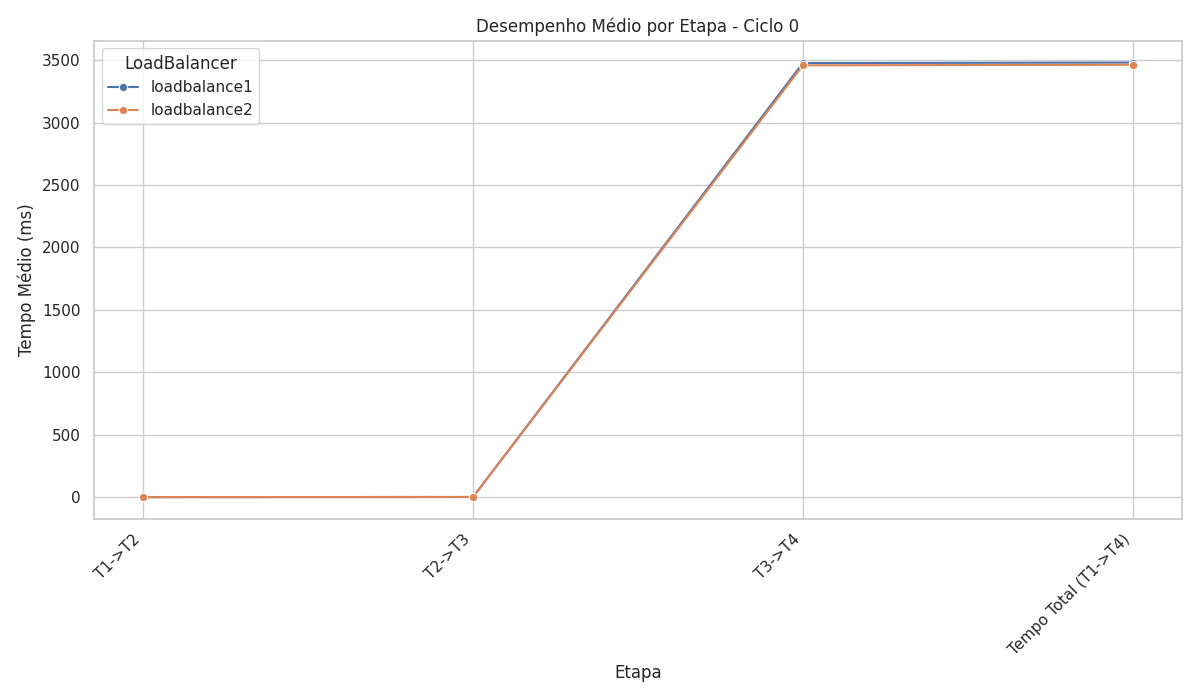
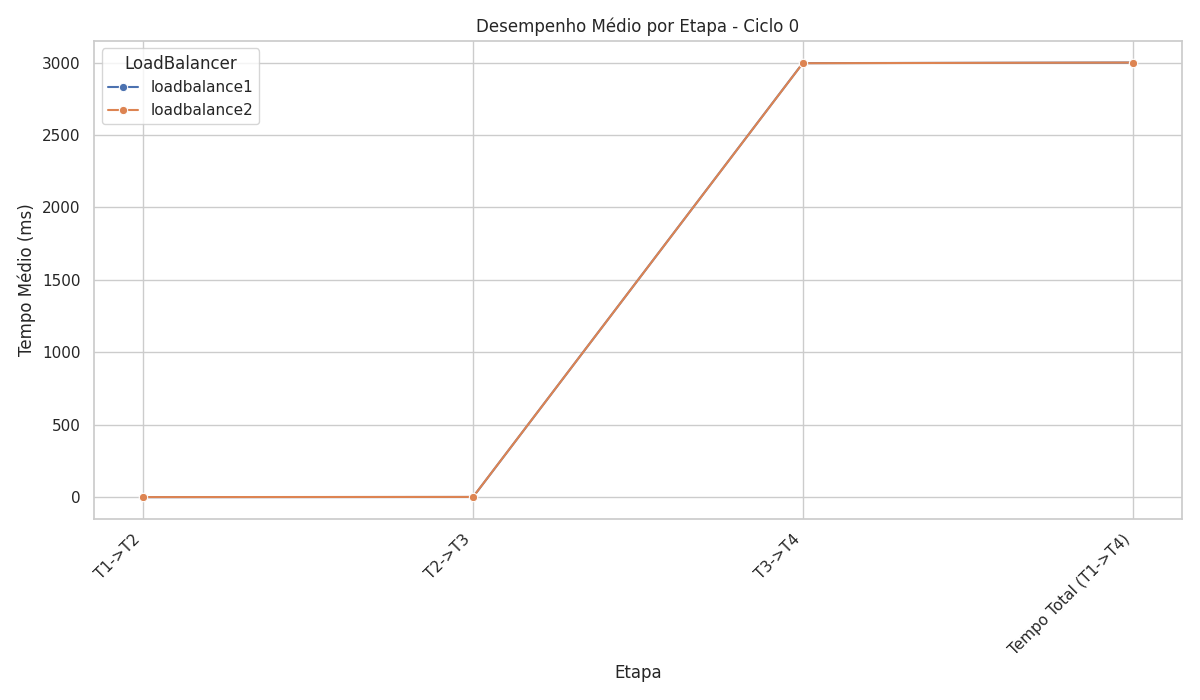
refactor:graphics

diff --git a/python/src/source.py b/python/src/source.py
@@ -108,7 +108,7 @@ class Source(AbstractProxy):
             msg = f"1;{self.source_current_index_message};{get_current_timestamp()}"
             self.send(msg)
             self.source_current_index_message += 1
-            time.sleep(self.arrival_delay / 1000.0)
+            time.sleep(self.arrival_delay)
 
     def send_messages_validation_stage(self) -> None:
         """
@@ -171,7 +171,7 @@ class Source(AbstractProxy):
                 t.start()
                 threads.append(t)
                 self.source_current_index_message += 1
-                time.sleep(self.arrival_delay / 1000.0)
+                time.sleep(self.arrival_delay)
 
             for t in threads:
                 #t.join(timeout=max(0, timeout - (time.time() - start_time)))

diff --git a/python/src/config.py b/python/src/config.py
@@ -17,9 +17,10 @@ def load_config() -> Dict[str, Any]:
         'mrts_from_model': [405597.23, 203892.96],
         'sdvs_from_model': [1245.97, 613.95],
         'qtd_services': [1, 2, 4],
-        'arrival_delay': 1000,
+        'arrival_delay': 0.250, # Tempo de chegada dos clientes em segundos
+        #'arrival_delay_variation': 0.5, # Variação do tempo de chegada dos clientes em segundo
 
-        # Configurações dos LoadBalancers
+        # Configurações do Load Balancer
         'loadbalancers': [
             {
                 'name': 'Server1',

diff --git a/python/src/service.py b/python/src/service.py
@@ -86,11 +86,13 @@ class Service(AbstractProxy):
 
         print(f"Processing message: {data}")
 
+        
         print(
             self.ia_service.ask("Por que sistemas distribuídos são complexos?")
         )
-
+        
         # Adiciona timestamp de envio à mensagem
+        #time.sleep(3)
         data = add_timestamp_to_message(data)
 
         print(f"Sending message: {data}")
